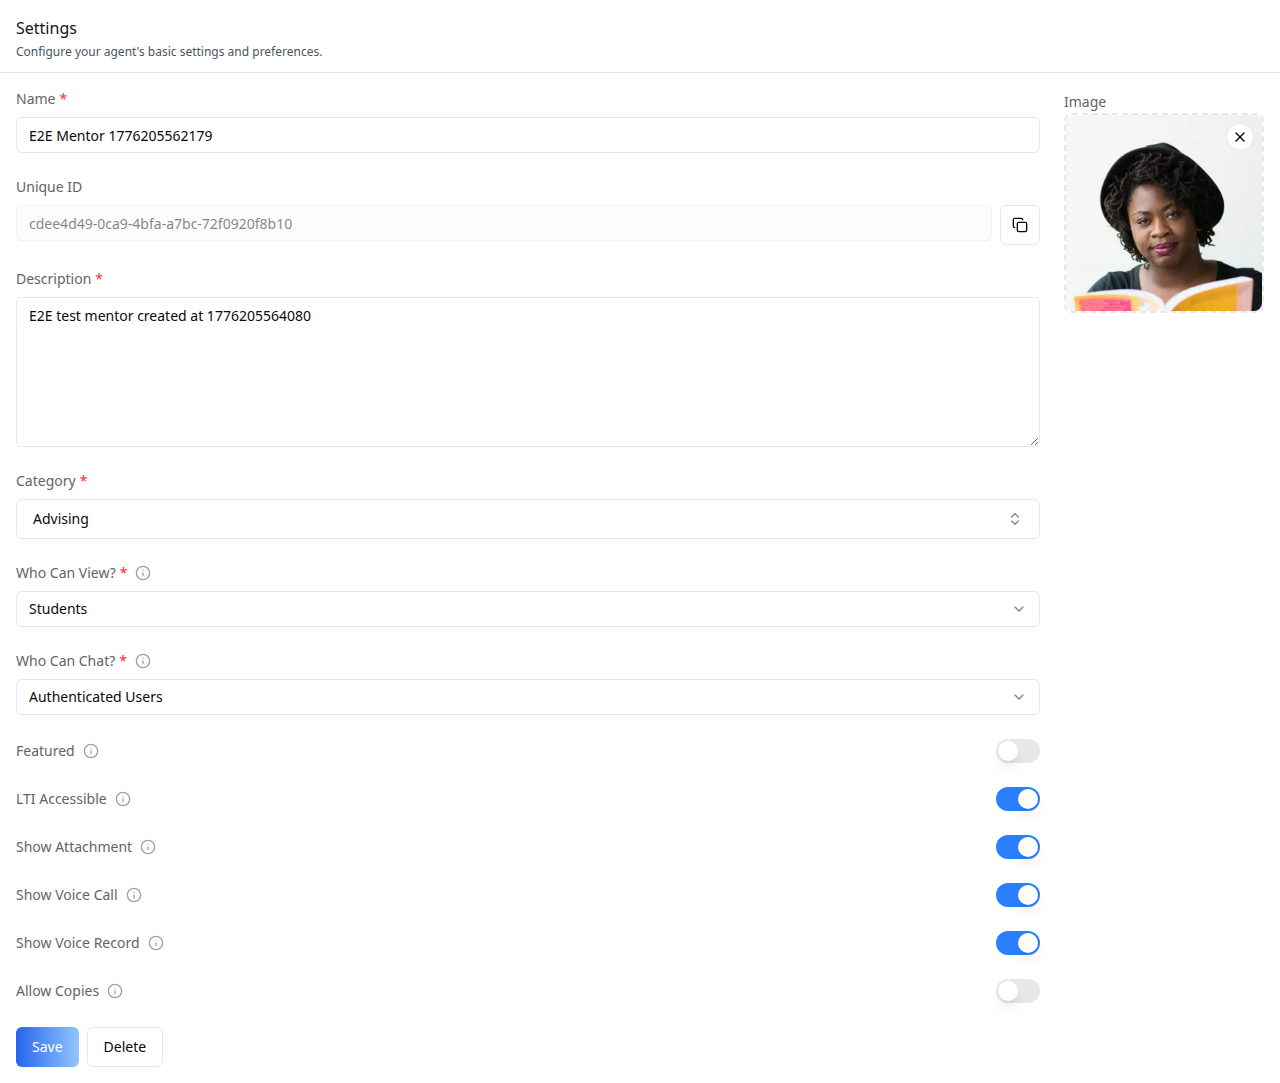
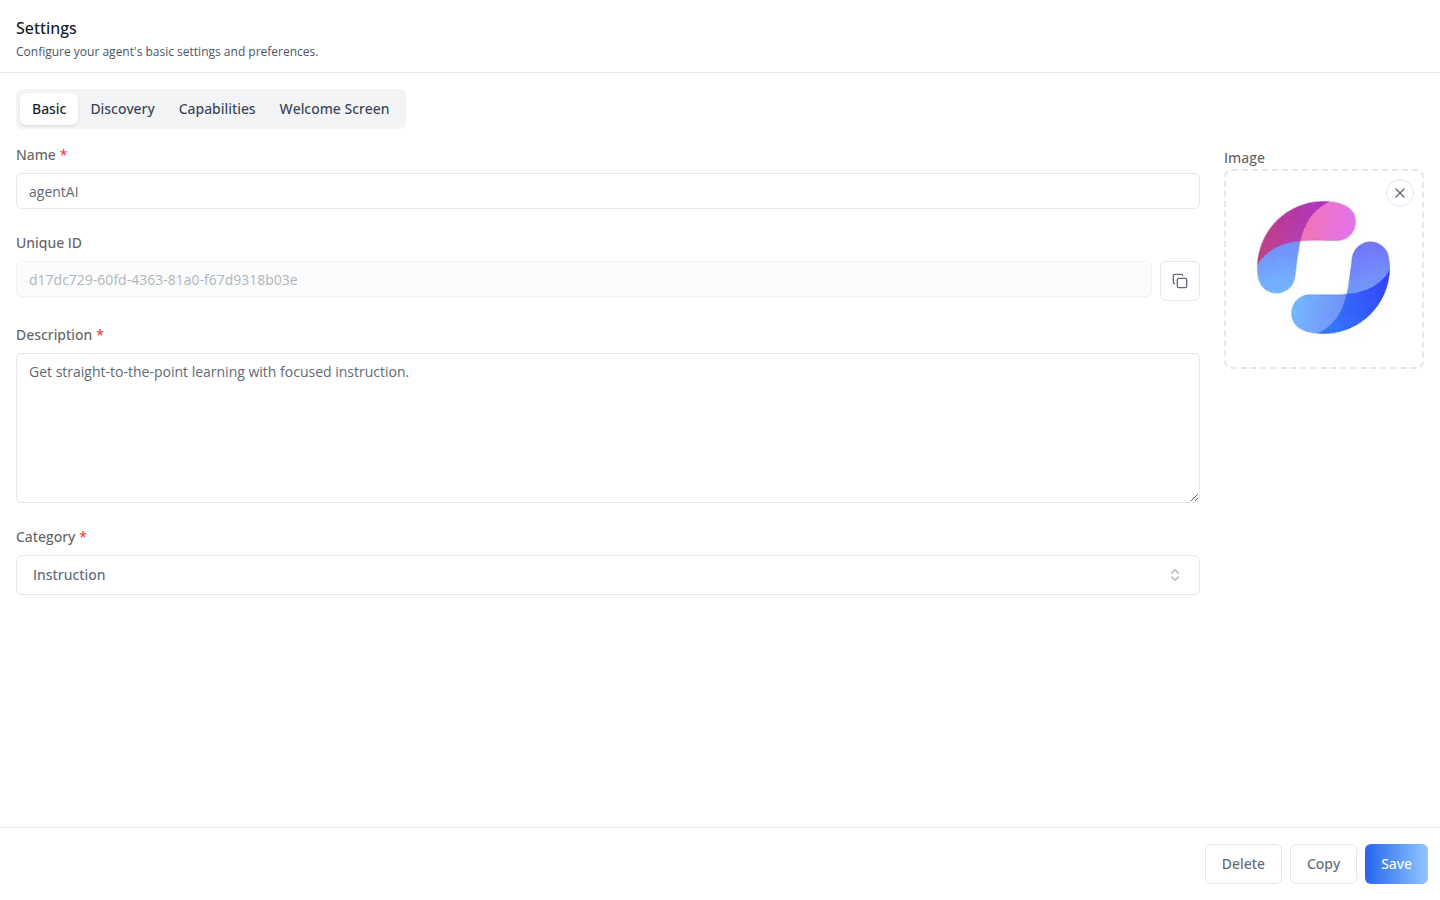
docs(agent-setting): four sub-tabs, in-chat model change moved to the LLM tab
Claude-Session: https://claude.ai/code/session_01KawN1dMH6MkyEsV7W7S2w7

diff --git a/skills/agents/iblai-vibe-agent-setting/SKILL.md b/skills/agents/iblai-vibe-agent-setting/SKILL.md
@@ -1,6 +1,6 @@
 ---
 name: iblai-vibe-agent-setting
-description: Add the agent Settings tab (name, description, visibility, copy, delete) to your Next.js app
+description: Add the agent Settings tab (Basic, Discovery, Capabilities and Welcome Screen sub-tabs; copy, delete) to your Next.js app
 globs:
 alwaysApply: false
 metadata:
@@ -10,16 +10,45 @@ metadata:
 
 # /iblai-vibe-agent-setting
 
-Add the agent **Settings tab** -- the core agent-edit form with name,
-description, avatar, visibility (administrators / students / anyone),
-category, plus a Copy-to-organization action and a Delete action. This is one
+Add the agent **Settings tab** -- the core agent-edit form, split into four
+sub-tabs (**Basic**, **Discovery**, **Capabilities**, **Welcome Screen**)
+above a sticky Delete / Copy / Save footer. This is one
 tab in the wider agent-settings family (`access`, `api`, `datasets`,
 `disclaimers`, `embed`, `history`, `llm`, `memory`, `prompts`, `safety`,
 `settings`, `tasks`, `tools`). Each tab is a separate skill. All tabs share the
 same `AgentSettingsProvider` wrapper -- set it up once and mount as many
 tabs as you need.
 
-![Settings Tab](https://raw.githubusercontent.com/iblai/vibe/refs/heads/main/skills/agents/iblai-vibe-agent-setting/iblai-vibe-agent-setting.png)
+**Basic** -- name, unique ID (read-only, copyable), description, category, image.
+
+![Settings tab -- Basic](https://raw.githubusercontent.com/iblai/vibe/refs/heads/main/skills/agents/iblai-vibe-agent-setting/iblai-vibe-agent-setting.png)
+
+**Discovery** -- who can view the agent, who can chat with it, and whether it
+is featured.
+
+![Settings tab -- Discovery](https://raw.githubusercontent.com/iblai/vibe/refs/heads/main/skills/agents/iblai-vibe-agent-setting/iblai-vibe-agent-setting-2-discovery.png)
+
+**Capabilities** -- **Surface Capabilities** sets Show Attachment, Show Voice
+Record and Show Voice Call separately for the in-app chat (`show_*`) and the
+embed widget (`embed_show_*`). **Global Capabilities** apply to both: Verbose
+Reasoning, Enhanced Document Retrieval, Reopen Last Conversation, Smart
+Document Retrieval, Prompt Caching, and under **Advanced** Allow Copies and
+Show Additional Agents. **Allow In-Chat Model Change** is no longer here: since
+`@iblai/iblai-js` 2.44.0 it is on the LLM tab (`/iblai-vibe-agent-llm`), and
+this tab's Save no longer sends `enable_in_chat_llm_change`.
+
+![Settings tab -- Capabilities](https://raw.githubusercontent.com/iblai/vibe/refs/heads/main/skills/agents/iblai-vibe-agent-setting/iblai-vibe-agent-setting-3-capabilities.png)
+
+**Welcome Screen** -- what a new chat opens with (the heading and the starter
+prompts), next to a live Desktop / Mobile / Embed preview.
+
+![Settings tab -- Welcome Screen](https://raw.githubusercontent.com/iblai/vibe/refs/heads/main/skills/agents/iblai-vibe-agent-setting/iblai-vibe-agent-setting-5-welcome-screen.png)
+
+**Copy** -- the footer's Copy opens `CopyMentorModal`: name the copy, choose
+whether to include training data, and -- when `tenants` holds two or more
+organizations with `is_admin: true` -- pick the destination organization.
+
+![Settings tab -- Copy dialog](https://raw.githubusercontent.com/iblai/vibe/refs/heads/main/skills/agents/iblai-vibe-agent-setting/iblai-vibe-agent-setting-4-copy.png)
 
 > **Common setup (brand, conventions, env files, verification):** see [docs/skill-setup.md](https://raw.githubusercontent.com/iblai/vibe/refs/heads/main/docs/skill-setup.md).
 
@@ -124,7 +153,11 @@ export default function AgentSettingsPage() {
       const raw = localStorage.getItem("tenants");
       const parsed = raw ? JSON.parse(raw) : [];
       setTenants(
-        parsed.map((t: any) => ({ key: t.key, name: t.name ?? t.key })),
+        parsed.map((t: any) => ({
+          key: t.key,
+          name: t.name ?? t.key,
+          is_admin: !!t.is_admin,
+        })),
       );
     } catch {}
     setIsLoadingTenants(false);
@@ -187,6 +220,14 @@ For a partial override, pass only the keys you want to change:
 />
 ```
 
+Beyond `header`, `fields`, `actions`, `toasts`, `deleteModal` and `copyModal`,
+the bundle names the sub-tabs (`subTabs.basic` / `discovery` /
+`capabilities` / `welcomeScreen`), the Capabilities headings
+(`sections.chatExperience`, `advanced`, `perSurface`, `globalSettings`), the
+matrix columns (`surfaces.inAppChat`, `embedWidget`) and their notes
+(`notes.*`). The Allow In-Chat Model Change copy is in the LLM tab's
+`LLMTabLabels.inChatModelChange`, not here.
+
 ## Step 5: Use MCP Tools for Customization
 
 ```
@@ -202,7 +243,7 @@ Import from `@iblai/iblai-js/web-containers/next`.
 
 | Prop | Type | Required | Description |
 |------|------|----------|-------------|
-| `tenants` | `CopyMentorTenant[]` | Yes | Organizations the agent can be copied into (forwarded to `CopyMentorModal`) |
+| `tenants` | `CopyMentorTenant[]` (`{ key, name?, is_admin }`) | Yes | Organizations the agent can be copied into (forwarded to `CopyMentorModal`); only entries with `is_admin: true` are offered as destinations |
 | `isLoadingTenants` | `boolean` | No | Loading state for the organization list |
 | `onSuccessfulSave` | `(mentor: MentorSettings) => void` | No | Fired after a successful save |
 | `onSuccessfulDelete` | `(deletedMentorId: string) => void` | No | Fired after a successful delete |
@@ -238,7 +279,7 @@ Run `/iblai-vibe-ops-test` before telling the user the work is ready:
 
 1. `pnpm build` -- must pass with zero errors
 2. `pnpm test` -- vitest must pass
-3. Touch test `/agents/<id>/setting` in the browser as `/iblai-vibe-ops-test` says: open it,
+3. Touch test `/agents/<id>/settings` in the browser as `/iblai-vibe-ops-test` says: open it,
    use every control this skill added, read the console, check the phone width.
 
 ## Important Notes
@@ -251,7 +292,9 @@ Run `/iblai-vibe-ops-test` before telling the user the work is ready:
 - **Shared provider**: Mount `AgentSettingsProvider` at a layout level so
   multiple tabs (`settings`, `llm`, `prompts`, ...) share one wrapper.
   Do NOT wrap each tab page individually.
-- **Tenants list**: The `tenants` prop drives the **Copy to tenant** flow.
+- **Tenants list**: The `tenants` prop drives the **Copy to organization** flow.
+  The destination picker appears only when two or more entries have
+  `is_admin: true` -- keep `is_admin` when mapping `localStorage.tenants`.
   If the user should not be able to copy cross-organization, pass an empty array.
 - **Labels ownership**: Consumer-specific bundles (agent, tutor, coach)
   live in the consuming app, not in `@iblai/iblai-js`. The package only

diff --git a/adapters/codex/iblai-vibe-agent-setting.md b/adapters/codex/iblai-vibe-agent-setting.md
@@ -1,19 +1,48 @@
 # iblai-vibe-agent-setting
 
-> Add the agent Settings tab (name, description, visibility, copy, delete) to your Next.js app
+> Add the agent Settings tab (Basic, Discovery, Capabilities and Welcome Screen sub-tabs; copy, delete) to your Next.js app
 
 # /iblai-vibe-agent-setting
 
-Add the agent **Settings tab** -- the core agent-edit form with name,
-description, avatar, visibility (administrators / students / anyone),
-category, plus a Copy-to-organization action and a Delete action. This is one
+Add the agent **Settings tab** -- the core agent-edit form, split into four
+sub-tabs (**Basic**, **Discovery**, **Capabilities**, **Welcome Screen**)
+above a sticky Delete / Copy / Save footer. This is one
 tab in the wider agent-settings family (`access`, `api`, `datasets`,
 `disclaimers`, `embed`, `history`, `llm`, `memory`, `prompts`, `safety`,
 `settings`, `tasks`, `tools`). Each tab is a separate skill. All tabs share the
 same `AgentSettingsProvider` wrapper -- set it up once and mount as many
 tabs as you need.
 
-![Settings Tab](https://raw.githubusercontent.com/iblai/vibe/refs/heads/main/skills/agents/iblai-vibe-agent-setting/iblai-vibe-agent-setting.png)
+**Basic** -- name, unique ID (read-only, copyable), description, category, image.
+
+![Settings tab -- Basic](https://raw.githubusercontent.com/iblai/vibe/refs/heads/main/skills/agents/iblai-vibe-agent-setting/iblai-vibe-agent-setting.png)
+
+**Discovery** -- who can view the agent, who can chat with it, and whether it
+is featured.
+
+![Settings tab -- Discovery](https://raw.githubusercontent.com/iblai/vibe/refs/heads/main/skills/agents/iblai-vibe-agent-setting/iblai-vibe-agent-setting-2-discovery.png)
+
+**Capabilities** -- **Surface Capabilities** sets Show Attachment, Show Voice
+Record and Show Voice Call separately for the in-app chat (`show_*`) and the
+embed widget (`embed_show_*`). **Global Capabilities** apply to both: Verbose
+Reasoning, Enhanced Document Retrieval, Reopen Last Conversation, Smart
+Document Retrieval, Prompt Caching, and under **Advanced** Allow Copies and
+Show Additional Agents. **Allow In-Chat Model Change** is no longer here: since
+`@iblai/iblai-js` 2.44.0 it is on the LLM tab (`/iblai-vibe-agent-llm`), and
+this tab's Save no longer sends `enable_in_chat_llm_change`.
+
+![Settings tab -- Capabilities](https://raw.githubusercontent.com/iblai/vibe/refs/heads/main/skills/agents/iblai-vibe-agent-setting/iblai-vibe-agent-setting-3-capabilities.png)
+
+**Welcome Screen** -- what a new chat opens with (the heading and the starter
+prompts), next to a live Desktop / Mobile / Embed preview.
+
+![Settings tab -- Welcome Screen](https://raw.githubusercontent.com/iblai/vibe/refs/heads/main/skills/agents/iblai-vibe-agent-setting/iblai-vibe-agent-setting-5-welcome-screen.png)
+
+**Copy** -- the footer's Copy opens `CopyMentorModal`: name the copy, choose
+whether to include training data, and -- when `tenants` holds two or more
+organizations with `is_admin: true` -- pick the destination organization.
+
+![Settings tab -- Copy dialog](https://raw.githubusercontent.com/iblai/vibe/refs/heads/main/skills/agents/iblai-vibe-agent-setting/iblai-vibe-agent-setting-4-copy.png)
 
 > **Common setup (brand, conventions, env files, verification):** see [docs/skill-setup.md](https://raw.githubusercontent.com/iblai/vibe/refs/heads/main/docs/skill-setup.md).
 
@@ -118,7 +147,11 @@ export default function AgentSettingsPage() {
       const raw = localStorage.getItem("tenants");
       const parsed = raw ? JSON.parse(raw) : [];
       setTenants(
-        parsed.map((t: any) => ({ key: t.key, name: t.name ?? t.key })),
+        parsed.map((t: any) => ({
+          key: t.key,
+          name: t.name ?? t.key,
+          is_admin: !!t.is_admin,
+        })),
       );
     } catch {}
     setIsLoadingTenants(false);
@@ -181,6 +214,14 @@ For a partial override, pass only the keys you want to change:
 />
 ```
 
+Beyond `header`, `fields`, `actions`, `toasts`, `deleteModal` and `copyModal`,
+the bundle names the sub-tabs (`subTabs.basic` / `discovery` /
+`capabilities` / `welcomeScreen`), the Capabilities headings
+(`sections.chatExperience`, `advanced`, `perSurface`, `globalSettings`), the
+matrix columns (`surfaces.inAppChat`, `embedWidget`) and their notes
+(`notes.*`). The Allow In-Chat Model Change copy is in the LLM tab's
+`LLMTabLabels.inChatModelChange`, not here.
+
 ## Step 5: Use MCP Tools for Customization
 
 ```
@@ -196,7 +237,7 @@ Import from `@iblai/iblai-js/web-containers/next`.
 
 | Prop | Type | Required | Description |
 |------|------|----------|-------------|
-| `tenants` | `CopyMentorTenant[]` | Yes | Organizations the agent can be copied into (forwarded to `CopyMentorModal`) |
+| `tenants` | `CopyMentorTenant[]` (`{ key, name?, is_admin }`) | Yes | Organizations the agent can be copied into (forwarded to `CopyMentorModal`); only entries with `is_admin: true` are offered as destinations |
 | `isLoadingTenants` | `boolean` | No | Loading state for the organization list |
 | `onSuccessfulSave` | `(mentor: MentorSettings) => void` | No | Fired after a successful save |
 | `onSuccessfulDelete` | `(deletedMentorId: string) => void` | No | Fired after a successful delete |
@@ -232,7 +273,7 @@ Run `/iblai-vibe-ops-test` before telling the user the work is ready:
 
 1. `pnpm build` -- must pass with zero errors
 2. `pnpm test` -- vitest must pass
-3. Touch test `/agents/<id>/setting` in the browser as `/iblai-vibe-ops-test` says: open it,
+3. Touch test `/agents/<id>/settings` in the browser as `/iblai-vibe-ops-test` says: open it,
    use every control this skill added, read the console, check the phone width.
 
 ## Important Notes
@@ -245,7 +286,9 @@ Run `/iblai-vibe-ops-test` before telling the user the work is ready:
 - **Shared provider**: Mount `AgentSettingsProvider` at a layout level so
   multiple tabs (`settings`, `llm`, `prompts`, ...) share one wrapper.
   Do NOT wrap each tab page individually.
-- **Tenants list**: The `tenants` prop drives the **Copy to tenant** flow.
+- **Tenants list**: The `tenants` prop drives the **Copy to organization** flow.
+  The destination picker appears only when two or more entries have
+  `is_admin: true` -- keep `is_admin` when mapping `localStorage.tenants`.
   If the user should not be able to copy cross-organization, pass an empty array.
 - **Labels ownership**: Consumer-specific bundles (agent, tutor, coach)
   live in the consuming app, not in `@iblai/iblai-js`. The package only

diff --git a/adapters/codex/iblai-vibe-agent.md b/adapters/codex/iblai-vibe-agent.md
@@ -64,9 +64,9 @@ Start with the **core six** (bold). Add the others only when the user asks.
 
 | Tab | What it does | Skill | REST twin (`iblai-api-*`, kind `api`) |
 |---|---|---|---|
-| **Settings** | name, description, avatar, category, visibility; copy to another org; delete | `/iblai-vibe-agent-setting` | [agent-setting](https://raw.githubusercontent.com/iblai/vibe/refs/heads/main/skills/agents/iblai-api-agent-setting/SKILL.md) |
+| **Settings** | Basic, Discovery, Capabilities, Welcome Screen sub-tabs; copy to another org; delete | `/iblai-vibe-agent-setting` | [agent-setting](https://raw.githubusercontent.com/iblai/vibe/refs/heads/main/skills/agents/iblai-api-agent-setting/SKILL.md) |
 | **Prompts** | system prompt, proactive/study/guided prompts, suggested prompts | `/iblai-vibe-agent-prompt` | [agent-prompt](https://raw.githubusercontent.com/iblai/vibe/refs/heads/main/skills/agents/iblai-api-agent-prompt/SKILL.md) |
-| **LLM** | provider + model selection (incl. the org's own keys) | `/iblai-vibe-agent-llm` | [agent-llm](https://raw.githubusercontent.com/iblai/vibe/refs/heads/main/skills/agents/iblai-api-agent-llm/SKILL.md) |
+| **LLM** | provider + model selection (incl. the org's own keys); Allow In-Chat Model Change; which models users can pick (admins) | `/iblai-vibe-agent-llm` | [agent-llm](https://raw.githubusercontent.com/iblai/vibe/refs/heads/main/skills/agents/iblai-api-agent-llm/SKILL.md) |
 | **Datasets** | RAG: files, URLs, YouTube, crawl, GitHub; train/retrain | `/iblai-vibe-agent-dataset` | [agent-dataset](https://raw.githubusercontent.com/iblai/vibe/refs/heads/main/skills/agents/iblai-api-agent-dataset/SKILL.md) |
 | **Memory** | enable memory; manage memories and categories | `/iblai-vibe-agent-memory` (guide: `/iblai-vibe-memory-guide`) | [agent-memory](https://raw.githubusercontent.com/iblai/vibe/refs/heads/main/skills/agents/iblai-api-agent-memory/SKILL.md) |
 | **Tools** | enable/disable the agent's tools | `/iblai-vibe-agent-tool` | [agent-tool](https://raw.githubusercontent.com/iblai/vibe/refs/heads/main/skills/agents/iblai-api-agent-tool/SKILL.md) |

diff --git a/skills/agents/iblai-vibe-agent/SKILL.md b/skills/agents/iblai-vibe-agent/SKILL.md
@@ -69,9 +69,9 @@ Start with the **core six** (bold). Add the others only when the user asks.
 
 | Tab | What it does | Skill | REST twin (`iblai-api-*`, kind `api`) |
 |---|---|---|---|
-| **Settings** | name, description, avatar, category, visibility; copy to another org; delete | `/iblai-vibe-agent-setting` | [agent-setting](https://raw.githubusercontent.com/iblai/vibe/refs/heads/main/skills/agents/iblai-api-agent-setting/SKILL.md) |
+| **Settings** | Basic, Discovery, Capabilities, Welcome Screen sub-tabs; copy to another org; delete | `/iblai-vibe-agent-setting` | [agent-setting](https://raw.githubusercontent.com/iblai/vibe/refs/heads/main/skills/agents/iblai-api-agent-setting/SKILL.md) |
 | **Prompts** | system prompt, proactive/study/guided prompts, suggested prompts | `/iblai-vibe-agent-prompt` | [agent-prompt](https://raw.githubusercontent.com/iblai/vibe/refs/heads/main/skills/agents/iblai-api-agent-prompt/SKILL.md) |
-| **LLM** | provider + model selection (incl. the org's own keys) | `/iblai-vibe-agent-llm` | [agent-llm](https://raw.githubusercontent.com/iblai/vibe/refs/heads/main/skills/agents/iblai-api-agent-llm/SKILL.md) |
+| **LLM** | provider + model selection (incl. the org's own keys); Allow In-Chat Model Change; which models users can pick (admins) | `/iblai-vibe-agent-llm` | [agent-llm](https://raw.githubusercontent.com/iblai/vibe/refs/heads/main/skills/agents/iblai-api-agent-llm/SKILL.md) |
 | **Datasets** | RAG: files, URLs, YouTube, crawl, GitHub; train/retrain | `/iblai-vibe-agent-dataset` | [agent-dataset](https://raw.githubusercontent.com/iblai/vibe/refs/heads/main/skills/agents/iblai-api-agent-dataset/SKILL.md) |
 | **Memory** | enable memory; manage memories and categories | `/iblai-vibe-agent-memory` (guide: `/iblai-vibe-memory-guide`) | [agent-memory](https://raw.githubusercontent.com/iblai/vibe/refs/heads/main/skills/agents/iblai-api-agent-memory/SKILL.md) |
 | **Tools** | enable/disable the agent's tools | `/iblai-vibe-agent-tool` | [agent-tool](https://raw.githubusercontent.com/iblai/vibe/refs/heads/main/skills/agents/iblai-api-agent-tool/SKILL.md) |

diff --git a/docs/catalogue.md b/docs/catalogue.md
@@ -74,7 +74,7 @@ word ("memory", "settings", "metadata") exists at four scopes.
 | ★ [`/iblai-api-agent-setting`](../skills/agents/iblai-api-agent-setting/SKILL.md) | 🔌 api | Read and write an ibl.ai agent's core settings via the platform API |
 | ★ [`/iblai-vibe-agent-create`](../skills/agents/iblai-vibe-agent-create/SKILL.md) | 🖥 ui | Create an ibl.ai agent from inside your app |
 | ★ [`/iblai-vibe-agent-memory`](../skills/agents/iblai-vibe-agent-memory/SKILL.md) | 🖥 ui | Add the agent Memory tab (enable/disable memory and manage memories) to your Next.js app |
-| ★ [`/iblai-vibe-agent-setting`](../skills/agents/iblai-vibe-agent-setting/SKILL.md) | 🖥 ui | Add the agent Settings tab (name, description, visibility, copy, delete) to your Next.js app |
+| ★ [`/iblai-vibe-agent-setting`](../skills/agents/iblai-vibe-agent-setting/SKILL.md) | 🖥 ui | Add the agent Settings tab (Basic, Discovery, Capabilities and Welcome Screen sub-tabs; copy, delete) to your Next.js app |
 | [`/iblai-api-agent-access`](../skills/agents/iblai-api-agent-access/SKILL.md) | 🔌 api | Manage role-based access to an ibl.ai agent via the platform API |
 | [`/iblai-api-agent-audit`](../skills/agents/iblai-api-agent-audit/SKILL.md) | 🔌 api | Read an ibl.ai agent's audit log via the platform API |
 | [`/iblai-api-agent-chat`](../skills/agents/iblai-api-agent-chat/SKILL.md) | 🔌 api | Set up live chat with a deployed ibl.ai agent by wiring the hosted iblai-api-agent-chat MCP server into the project (.mcp.json / claude m… |

diff --git a/adapters/codex/iblai-api-agent-setting.md b/adapters/codex/iblai-api-agent-setting.md
@@ -85,5 +85,7 @@ curl -X PUT \
 
 - A field left out of the PUT is left unchanged — never resend the whole object.
 - `categories` expects numeric category ids from the categories endpoint, not names.
+- `enable_in_chat_llm_change` saves through the same endpoint, but its switch
+  is on the LLM tab, not the Settings tab — see `/iblai-api-agent-llm`.
 - Deletion and forking are scoped to `{username}`; settings reads/writes use the
   `users/{username}/mentors/{mentor}/` path.

diff --git a/skills/agents/iblai-api-agent-setting/SKILL.md b/skills/agents/iblai-api-agent-setting/SKILL.md
@@ -89,5 +89,7 @@ curl -X PUT \
 
 - A field left out of the PUT is left unchanged — never resend the whole object.
 - `categories` expects numeric category ids from the categories endpoint, not names.
+- `enable_in_chat_llm_change` saves through the same endpoint, but its switch
+  is on the LLM tab, not the Settings tab — see `/iblai-api-agent-llm`.
 - Deletion and forking are scoped to `{username}`; settings reads/writes use the
   `users/{username}/mentors/{mentor}/` path.
